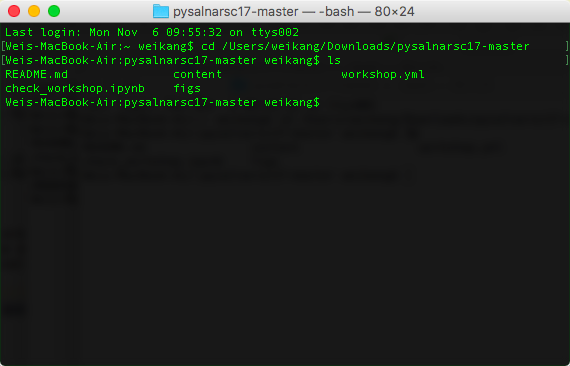
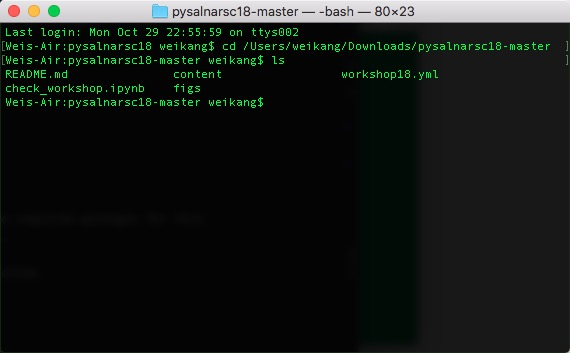
update readme

diff --git a/README.md b/README.md
@@ -58,13 +58,12 @@ Extract the downloaded zip file to a working directory.
 We will be using a number of Python packages for geospatial analysis.
 
 
-An easy way to install all of these packages is to use a Python distribution such as [Anaconda](https://www.anaconda.com/download/#macos). In this workshop we will be using **Python 3.7** so please download that version of Anaconda.
+An easy way to install all of these packages is to use a Python distribution such as [Anaconda](https://www.anaconda.com/download/#macos). In this workshop we will use anaconda to build an [environment](https://conda.io/docs/user-guide/tasks/manage-environments.html) for **Python 3.6**. It does not matter which version of anaconda is downloaded. We recommend installing Anaconda 3.7.
 
 ![anaconda](figs/readmefigs/anaconda.png)
 
 
 On windows, all our work will begin from an anaconda prompt, which you can start as follows:
-
 
 ![anacondaprompt](figs/readmefigs/anacondastartwin.png)
 
@@ -78,7 +77,7 @@ Once we have done that, run:
 conda-env create -f workshop18.yml
 ```
 
-This will build a conda environment that sandboxes the installation of the required packages for this workshop so we don't break anything in your computer's system Python (if it has one).
+This will build a conda python 3.6 environment that sandboxes the installation of the required packages for this workshop so we don't break anything in your computer's system Python (if it has one).
 
 This may take 10-15 minutes to complete depending on the speed of your network connection.
 
@@ -86,7 +85,7 @@ Once this completes, you can activate the workshop environment with:
 
 * on Mac, Linux
 ```bash
-conda activate workshop18
+source activate workshop18
 ```
 * on Windows:
 ```bash
@@ -102,7 +101,7 @@ You should see something like:
 ```bash
 [NbConvertApp] Converting notebook check_workshop.ipynb to html
 [NbConvertApp] Executing notebook with kernel: python3
-[NbConvertApp] Writing 386650 bytes to check_workshop.html
+[NbConvertApp] Writing 387717 bytes to check_workshop.html
 ```
 
 Open check_workshop.html in a browser, and scroll all the way down, you should see something like:
